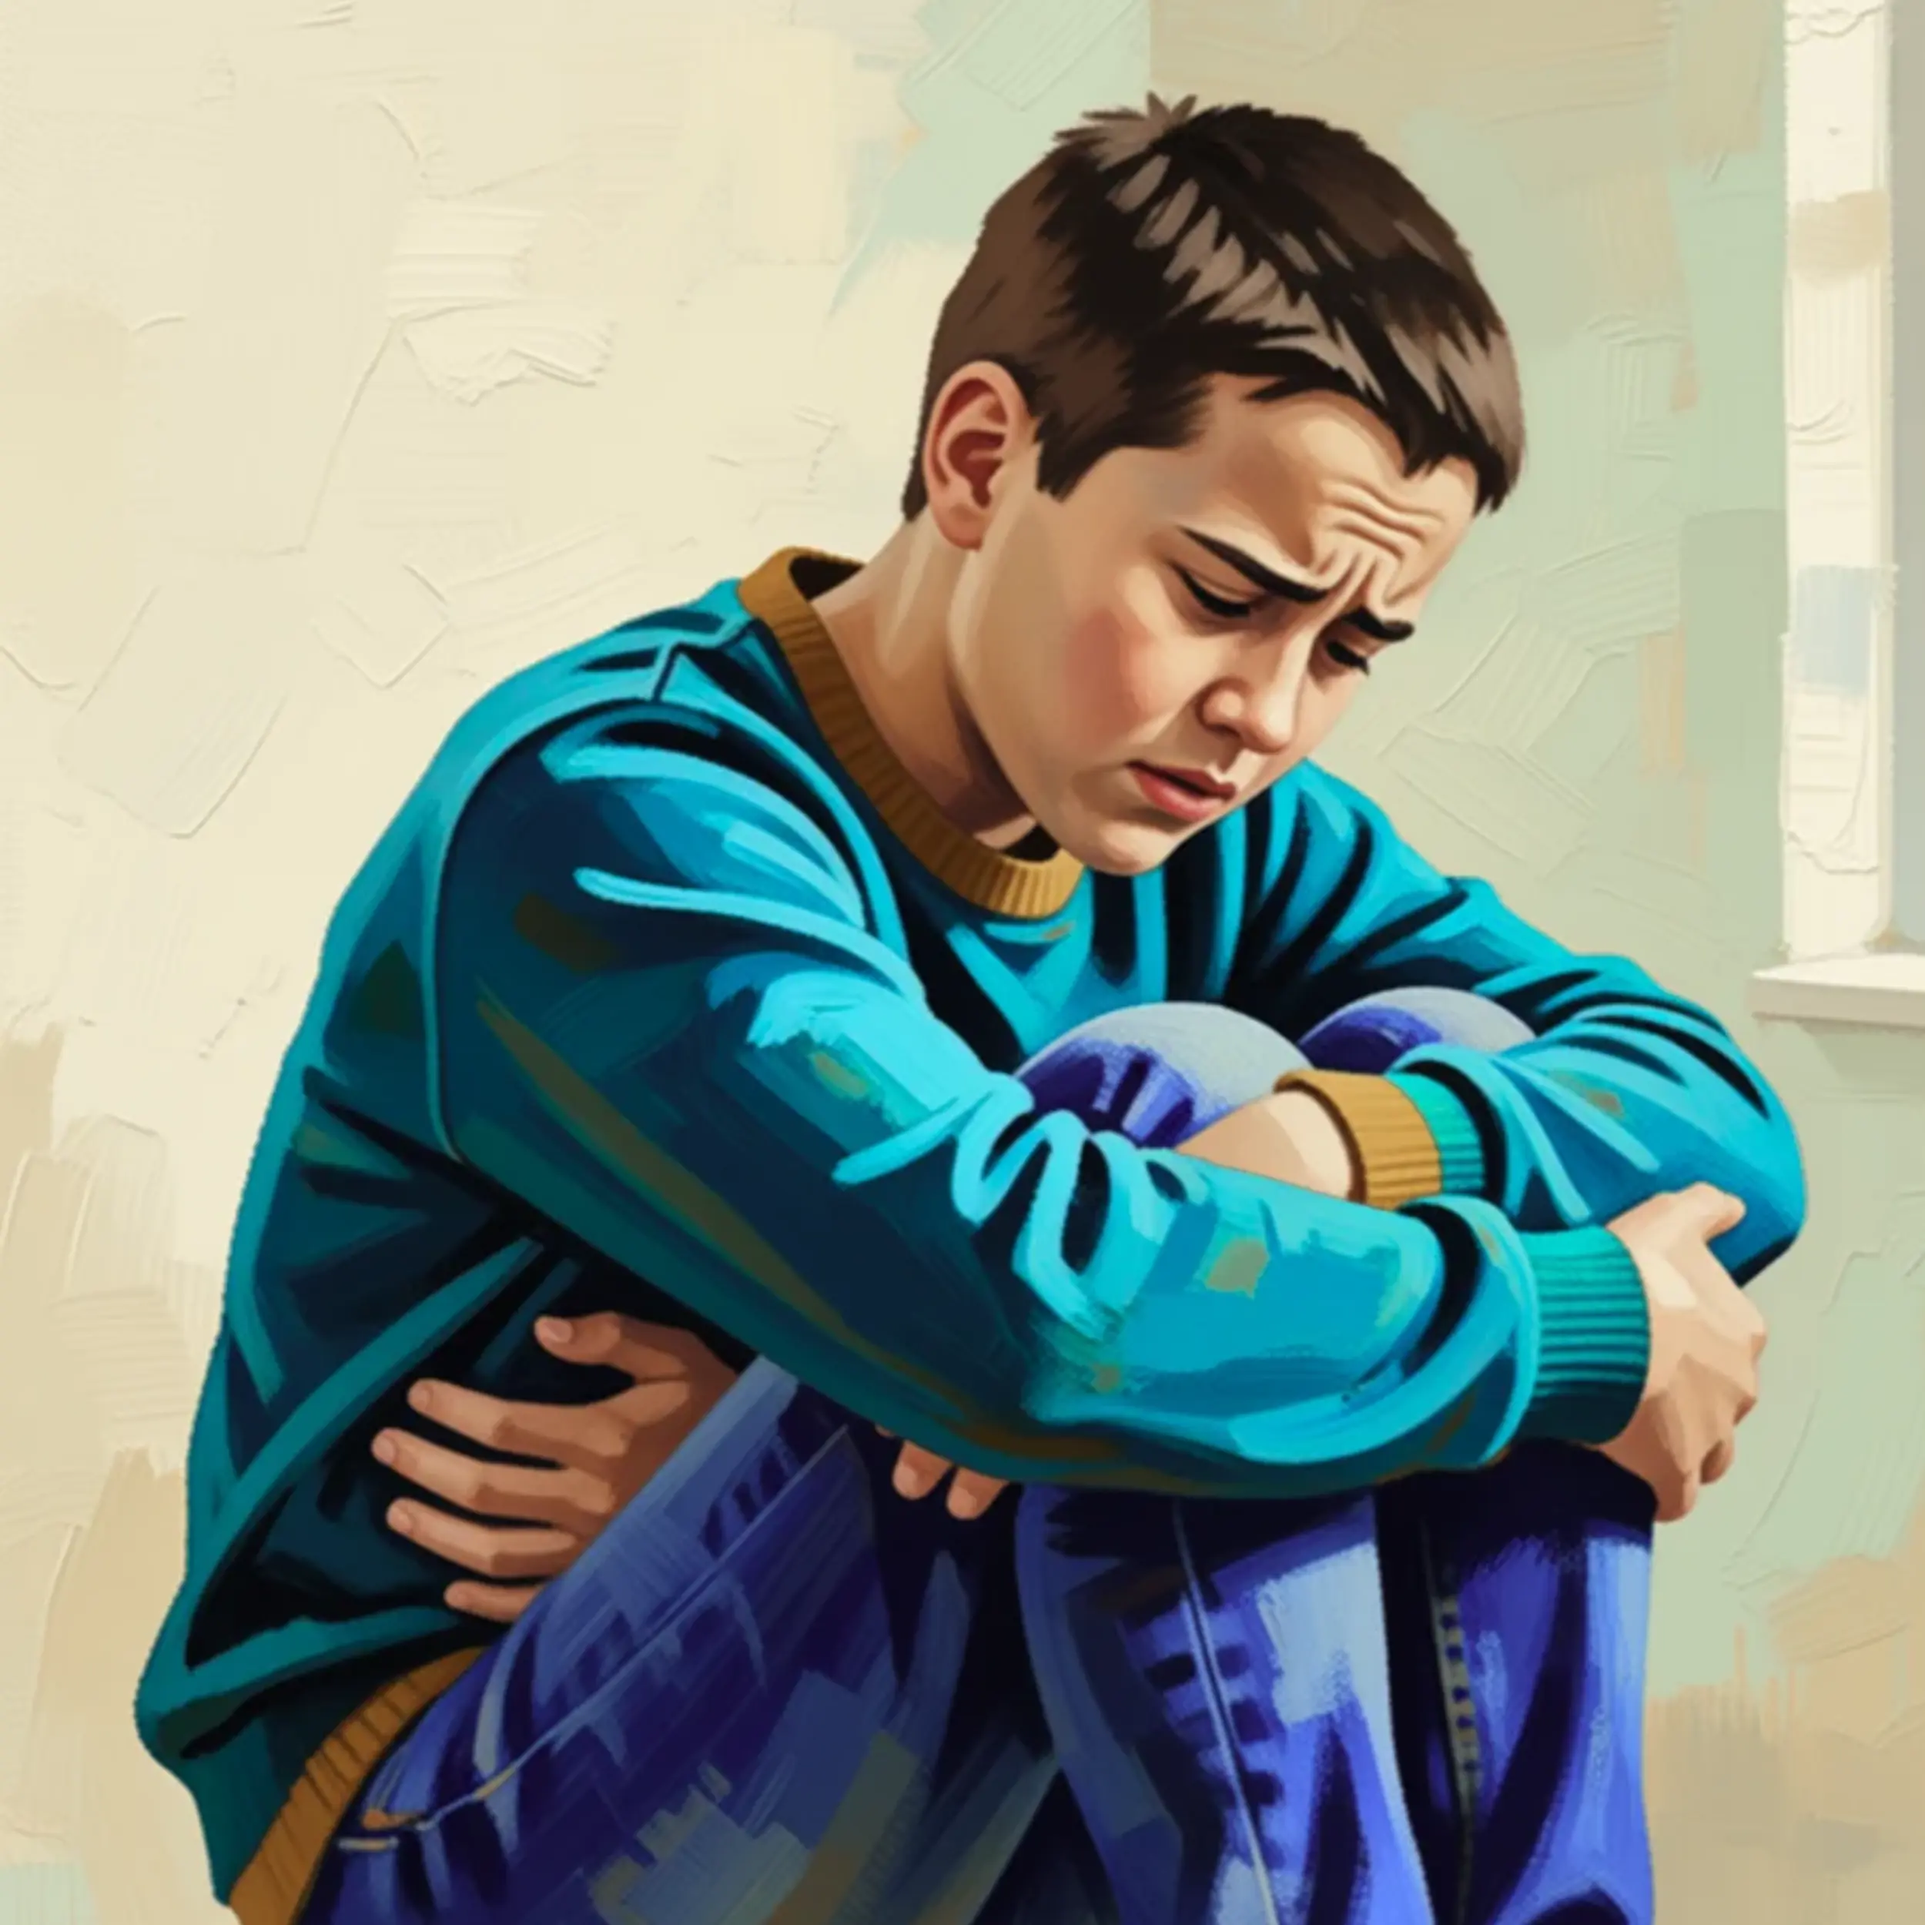
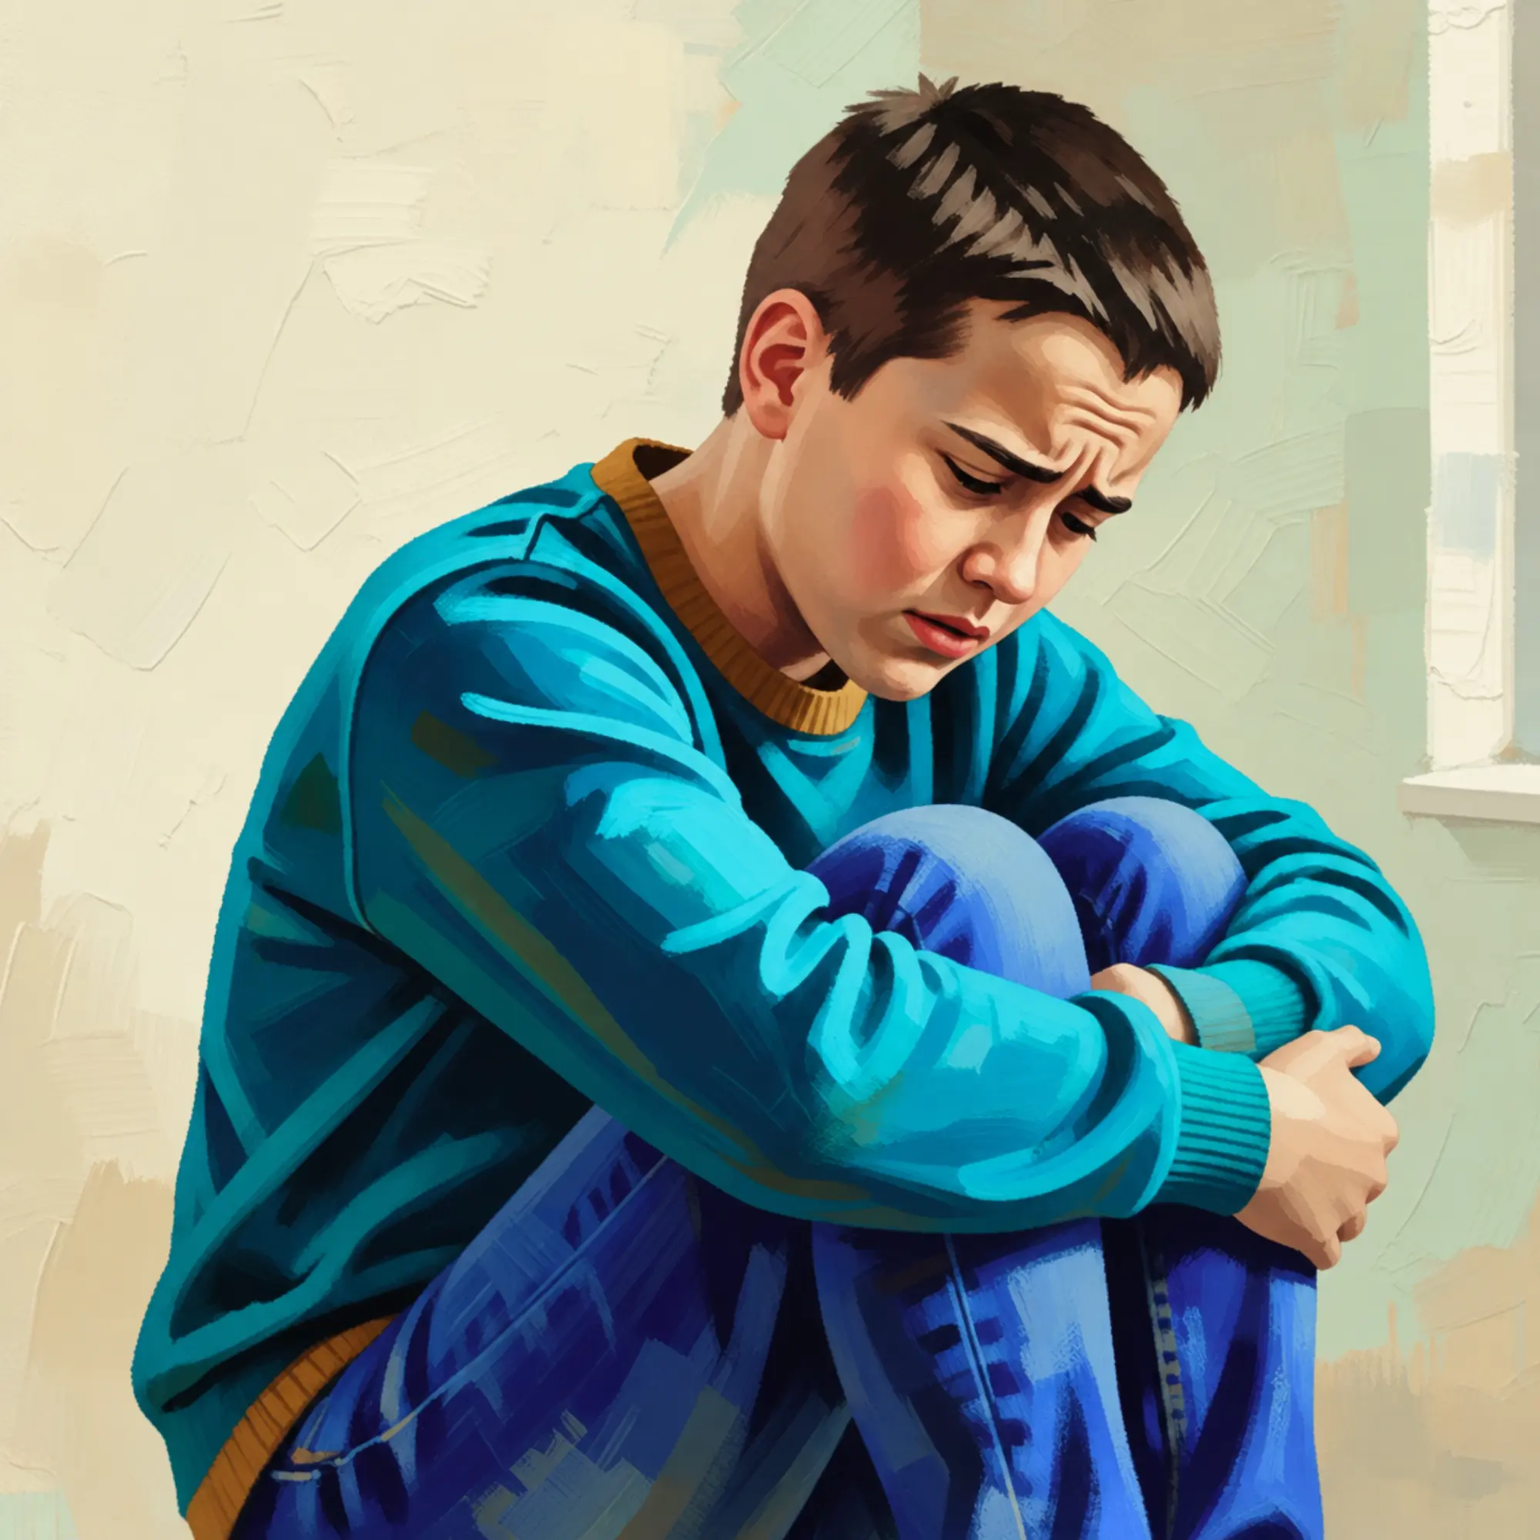
push two arm pic instead of three

diff --git a/src/components/articles/autism/asd-support/ABATherapy.tsx b/src/components/articles/autism/asd-support/ABATherapy.tsx
@@ -1,3 +1,5 @@
+import { AlertTriangle } from 'lucide-react';
+
 interface ABATherapyProps {
   setCurrentArticle?: (article: string) => void;
 }
@@ -24,35 +26,97 @@ export function ABATherapy({ setCurrentArticle }: ABATherapyProps) {
           ABA is a behavior-focused therapy that uses reinforcement to teach skills. While it is widely used, it is important to understand both its goals and the ongoing community dialogue regarding its implementation.<sup>1</sup>
         </p>
       </div>
-
+{/* ===== UNIFORM TOP BOXES (3D STRIPE STYLE) ===== */}
       <div className="grid grid-cols-1 md:grid-cols-2 gap-6 mb-8">
-        <div className="bg-white p-5 rounded-lg border-l-4 border-[#0c264d] shadow-sm">
-          <h3 className="font-bold text-[#0c264d] mb-3">Key Concepts</h3>
-          <ul className="text-sm space-y-3 text-gray-700">
-            <li className="flex items-start">
-              <span className="text-[#0c264d] mr-2 mt-0.5 text-[10px]">◆</span>
-              <span><strong>Positive Reinforcement:</strong> Rewarding desired behaviors to encourage repetition.</span>
-            </li>
-            <li className="flex items-start">
-              <span className="text-[#0c264d] mr-2 mt-0.5 text-[10px]">◆</span>
-              <span><strong>Task Analysis:</strong> Breaking complex skills into tiny, achievable steps.</span>
-            </li>
-            <li className="flex items-start">
-              <span className="text-[#0c264d] mr-2 mt-0.5 text-[10px]">◆</span>
-              <span><strong>Data-Driven:</strong> Constant measurement of progress to adjust the plan.</span>
-            </li>
-          </ul>
+        
+        {/* Key Concepts Box */}
+        <div className="bg-white p-5 rounded-xl shadow-sm border border-gray-200 relative overflow-hidden flex flex-col h-full">
+          <div className="absolute left-0 top-0 bottom-0 w-1.5 bg-[#0c264d]"></div>
+          <div className="pl-2 flex flex-col flex-grow">
+            <h2 className="font-bold text-[#0c264d] mb-3 border-b border-gray-100 pb-2">Key Concepts</h2>
+            <ul className="text-sm space-y-3 text-gray-700 flex-grow list-none p-0 m-0">
+              <li><strong>Positive Reinforcement:</strong> Rewarding desired behaviors to encourage repetition.</li>
+              <li><strong>Task Analysis:</strong> Breaking complex skills into tiny, achievable steps.</li>
+              <li><strong>Data-Driven:</strong> Constant measurement of progress to adjust the plan.</li>
+            </ul>
+          </div>
         </div>
         
-        <div className="bg-[#fffbeb] p-5 rounded-lg border-l-4 border-[#d97706] shadow-sm">
-          <h3 className="font-bold text-[#0c264d] mb-3">Community Perspective</h3>
-          <p className="text-sm text-gray-700 leading-relaxed">
-            Modern advocates emphasize that ABA should never be used to "mask" autistic traits or suppress harmless stimming.<sup>2</sup> The focus should always be on the individual's safety, autonomy, and chosen goals.
+        {/* Community Perspective Box */}
+        <div className="bg-white p-5 rounded-xl shadow-sm border border-gray-200 relative overflow-hidden flex flex-col h-full">
+          <div className="absolute left-0 top-0 bottom-0 w-1.5 bg-[#0A9DC4]"></div>
+          <div className="pl-2 flex flex-col flex-grow">
+            <h2 className="font-bold text-[#0c264d] mb-3 border-b border-gray-100 pb-2">Community Perspective</h2>
+            <p className="text-sm text-gray-700 leading-relaxed flex-grow">
+              Modern advocates emphasize that ABA should never be used to "mask" autistic traits or suppress harmless stimming.<sup>2</sup> The focus should always be on the individual's safety, autonomy, and chosen goals.
+            </p>
+          </div>
+        </div>
+
+      </div>
+{/* ===== THE CONTROVERSY (ACCESSIBLE WARNING CARD) ===== */}
+      <div className="bg-[#fdf2f8] p-6 rounded-xl border border-[#fbcfe8] shadow-md relative overflow-hidden mb-8 mt-8">
+        <div className="absolute left-0 top-0 bottom-0 w-1.5 bg-[#be185d]"></div>
+        
+        <div className="pl-2">
+          <h2 className="text-[#831843] font-bold mb-4 text-xl flex items-center gap-2">
+            <AlertTriangle className="text-[#be185d]" size={24} />
+            The Core Controversy: Compliance & Masking
+          </h2>
+          <p className="text-sm text-[#831843] leading-relaxed mb-5">
+            The most significant criticism of traditional ABA from autistic adults and advocates is its historical focus on <strong>compliance and masking</strong>. For decades, the explicit goal of early ABA was to make autistic children "indistinguishable from their peers."
           </p>
+          
+          <div className="grid md:grid-cols-2 gap-6">
+            
+            {/* Inner Card 1: No side border, added shadow */}
+            <div className="bg-white p-5 rounded-xl shadow-md border border-gray-200 flex flex-col h-full">
+              <h4 className="font-bold text-[#831843] mb-3 text-sm uppercase tracking-wider border-b border-gray-100 pb-2">
+                The Cost of "Indistinguishable"
+              </h4>
+              <ul className="space-y-3 text-xs text-slate-700 flex-grow">
+                <li className="flex items-start">
+                  <span className="text-[#be185d] mr-2 mt-0.5 text-[10px]">◆</span>
+                  <span><strong>Suppressing Regulation:</strong> Punishing or withholding rewards for harmless self-regulation (stimming).</span>
+                </li>
+                <li className="flex items-start">
+                  <span className="text-[#be185d] mr-2 mt-0.5 text-[10px]">◆</span>
+                  <span><strong>Forced Compliance:</strong> Mandating unnatural behaviors, such as forced eye contact, which many autistic people report as physically painful.</span>
+                </li>
+              </ul>
+            </div>
+            
+            {/* Inner Card 2: No side border, added shadow */}
+            <div className="bg-white p-5 rounded-xl shadow-md border border-gray-200 flex flex-col h-full">
+              <h4 className="font-bold text-[#831843] mb-3 text-sm uppercase tracking-wider border-b border-gray-100 pb-2">
+                Trauma & Burnout
+              </h4>
+              <p className="text-xs text-slate-700 leading-relaxed flex-grow">
+                When individuals are trained to continuously ignore their internal distress to comply with adult demands, it removes their autonomy. A growing body of research and firsthand accounts link these strict compliance-based therapies to severe autistic burnout, anxiety, and trauma (PTSD) in adulthood.<sup>6</sup>
+              </p>
+            </div>
+
+          </div>
         </div>
       </div>
 
-  <div className="grid md:grid-cols-2 gap-5">
+      {/* ===== NATURALISTIC APPROACHES (NDBI) ===== */}
+{/* 3D Yellow Accent Container */}
+      <div className="bg-white p-6 rounded-xl border border-gray-200 shadow-sm relative overflow-hidden mb-8 mt-4">
+        {/* The 3D Stripe */}
+        <div className="absolute left-0 top-0 bottom-0 w-1.5 bg-[#ffd166]"></div>
+        
+        {/* Inner Content Wrapper */}
+        <div className="pl-2">
+        <h2 className="text-[#0c264d] font-bold mb-4 text-xl uppercase tracking-wider">
+          Naturalistic Developmental Behavioral Interventions (NDBI)
+        </h2>
+        
+        <p className="text-sm text-gray-700 leading-relaxed mb-6">
+          <strong>NDBI stands for Naturalistic Developmental Behavioral Interventions.</strong> It is an umbrella term for a modern class of therapies that combine the science of Applied Behavior Analysis (ABA) with developmental psychology. Instead of rigid table-work, NDBIs are child-led and play-based. They are conducted in natural environments (like the floor of a playroom) and rely on the child's natural interests and intrinsic motivation to teach skills, making them much more aligned with neurodiversity-affirming care.<sup>3</sup>
+        </p>
+
+        <div className="grid md:grid-cols-2 gap-5">
           
           {/* PRT */}
           <div className="bg-[#f0f9ff] p-4 rounded-lg border border-[#0A9DC4]/20 shadow-sm flex flex-col h-full">
@@ -64,7 +128,7 @@ export function ABATherapy({ setCurrentArticle }: ABATherapyProps) {
             </p>
             <button 
               onClick={() => setCurrentArticle?.('autism-aba-prt')}
-              className="px-4 py-2 bg-[#ffd166] text-[#0c264d] rounded hover:bg-[#0c264d] hover:text-white transition-colors font-bold text-xs w-fit flex items-center gap-1"
+              className="px-4 py-2 bg-[#ffd166] text-[#0c264d] rounded hover:bg-[#0c264d] hover:text-white transition-colors font-bold text-xs w-fit flex items-center gap-1 shrink-0"
             >
               Read more →
             </button>
@@ -80,7 +144,7 @@ export function ABATherapy({ setCurrentArticle }: ABATherapyProps) {
             </p>
             <button 
               onClick={() => setCurrentArticle?.('autism-aba-esdm')}
-              className="px-4 py-2 bg-[#ffd166] text-[#0c264d] rounded hover:bg-[#0c264d] hover:text-white transition-colors font-bold text-xs w-fit flex items-center gap-1"
+              className="px-4 py-2 bg-[#ffd166] text-[#0c264d] rounded hover:bg-[#0c264d] hover:text-white transition-colors font-bold text-xs w-fit flex items-center gap-1 shrink-0"
             >
               Read more →
             </button>
@@ -96,7 +160,7 @@ export function ABATherapy({ setCurrentArticle }: ABATherapyProps) {
             </p>
             <button 
               onClick={() => setCurrentArticle?.('autism-aba-net')}
-              className="px-4 py-2 bg-[#ffd166] text-[#0c264d] rounded hover:bg-[#0c264d] hover:text-white transition-colors font-bold text-xs w-fit flex items-center gap-1"
+              className="px-4 py-2 bg-[#ffd166] text-[#0c264d] rounded hover:bg-[#0c264d] hover:text-white transition-colors font-bold text-xs w-fit flex items-center gap-1 shrink-0"
             >
               Read more →
             </button>
@@ -112,13 +176,15 @@ export function ABATherapy({ setCurrentArticle }: ABATherapyProps) {
             </p>
             <button 
               onClick={() => setCurrentArticle?.('autism-aba-it')}
-              className="px-4 py-2 bg-[#ffd166] text-[#0c264d] rounded hover:bg-[#0c264d] hover:text-white transition-colors font-bold text-xs w-fit flex items-center gap-1"
+              className="px-4 py-2 bg-[#ffd166] text-[#0c264d] rounded hover:bg-[#0c264d] hover:text-white transition-colors font-bold text-xs w-fit flex items-center gap-1 shrink-0"
             >
               Read more →
             </button>
           </div>
 
         </div>
+      </div>
+      </div>
 
       {/* --- BOTTOM BACK BUTTON --- */}
       <div className="flex justify-end mt-8 mb-6 clear-both">
